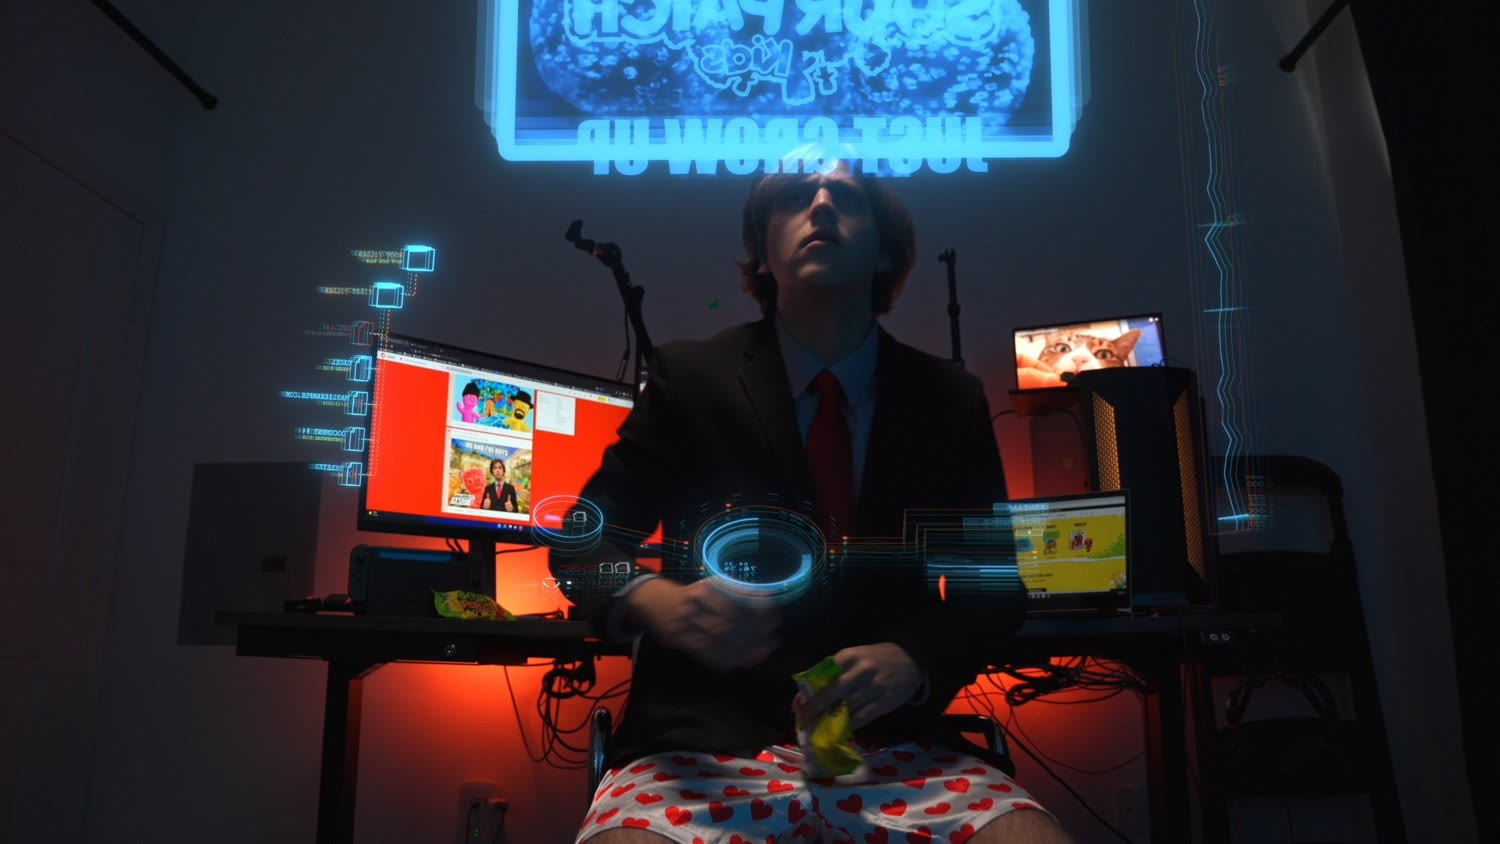
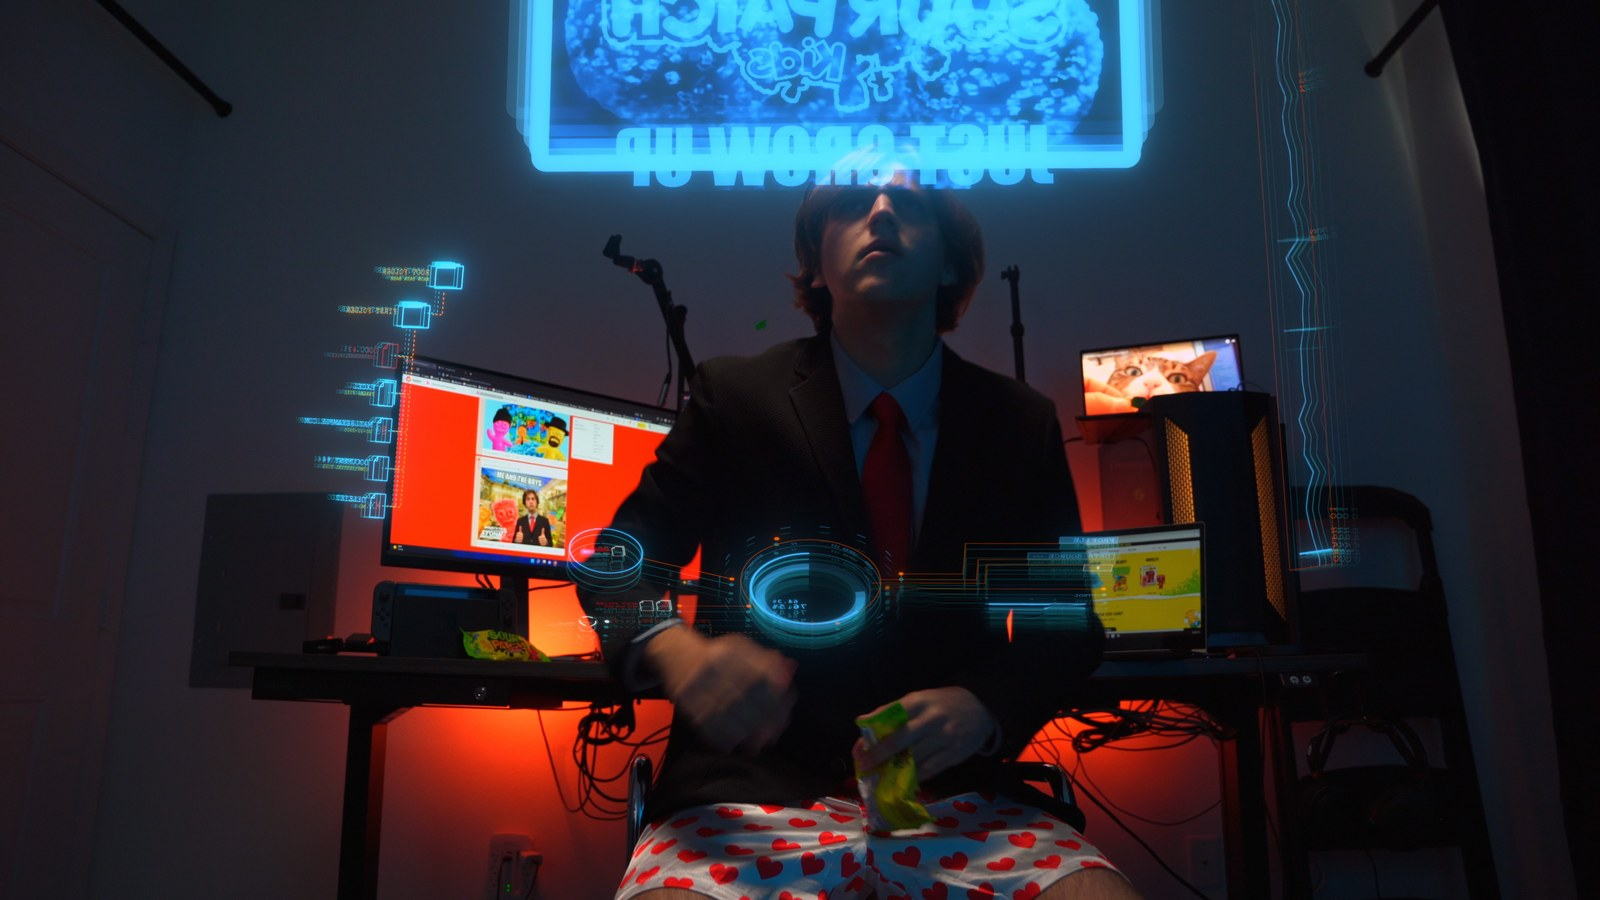
fix(stills+embed): invalid_opinion focus still re-pulled from the ProRes master (800 -> 800/1600/2560, true 1600 jpg); revelations focus registered at native 2048; watch facade opts out of cursor tilt (notilt) so the hug outline stays clean
Staged in this commit (7 file(s)):
  M	data/stills-hd.json
  M	index.html
  M	media/projects/invalid_opinion/stills/invalid_opinion-focus-1600.jpg
  A	media/projects/invalid_opinion/stills/invalid_opinion-focus-1600.webp
  A	media/projects/invalid_opinion/stills/invalid_opinion-focus-2560.webp
  M	media/projects/invalid_opinion/stills/invalid_opinion-focus-800.webp
  M	media/projects/invalid_opinion/stills/invalid_opinion-focus.jpg

diff --git a/index.html b/index.html
@@ -74,9 +74,7 @@
    Must run in <head>, before the load event, or the browser has already decided. */
 if ('scrollRestoration' in history) history.scrollRestoration = 'manual';
 </script>
-<link rel="preconnect" href="https://fonts.googleapis.com">
-<link rel="preconnect" href="https://fonts.gstatic.com" crossorigin>
-<link href="https://fonts.googleapis.com/css2?family=Heebo:wght@400;600;700;800&family=Inter:wght@400;600;700;800&family=Kaushan+Script&display=swap" rel="stylesheet">
+<link rel="stylesheet" href="/assets/fonts/fonts.css">
 <style>
 /* page-load veil - masks first-load asset pop-in; self-removing, never blocks interaction.
    Colour = a colour-look (data/site.json -> veil.colorLook) muted onto a dark base. */
@@ -1962,8 +1960,11 @@ function renderWatch(w){
   });
   const yt=links.find(L=>L.net==='youtube'), vim=links.find(L=>L.net==='vimeo');
   let embed='';
-  if(yt) embed=`<div class="u-embed"><button class="yt-facade" type="button" data-id="${yt.id}" aria-label="Play video on YouTube" style="background-image:url('https://i.ytimg.com/vi/${yt.id}/hqdefault.jpg')"><span class="yt-play"></span></button></div>`;
-  else if(vim) embed=`<div class="u-embed"><button class="vim-facade" type="button" data-id="${vim.id}" aria-label="Play video on Vimeo"><span class="yt-play"></span></button></div>`;
+  /* data-cursor="notilt": the cursor engine must NOT perspective-tilt the watch facade -
+     the tilt shifts the frame while the cursor's hug outline stays put, which reads as a
+     glitch on a big embed. Outline morph still applies; only the tilt is opted out. */
+  if(yt) embed=`<div class="u-embed"><button class="yt-facade" type="button" data-cursor="notilt" data-id="${yt.id}" aria-label="Play video on YouTube" style="background-image:url('https://i.ytimg.com/vi/${yt.id}/hqdefault.jpg')"><span class="yt-play"></span></button></div>`;
+  else if(vim) embed=`<div class="u-embed"><button class="vim-facade" type="button" data-cursor="notilt" data-id="${vim.id}" aria-label="Play video on Vimeo"><span class="yt-play"></span></button></div>`;
   let body='';
   if(btns) body=`<div class="watch-btns">${btns}</div>${embed}`;
   else if(w.status) body=`<div class="watch-status">${_wEsc(w.status)}</div>`;
